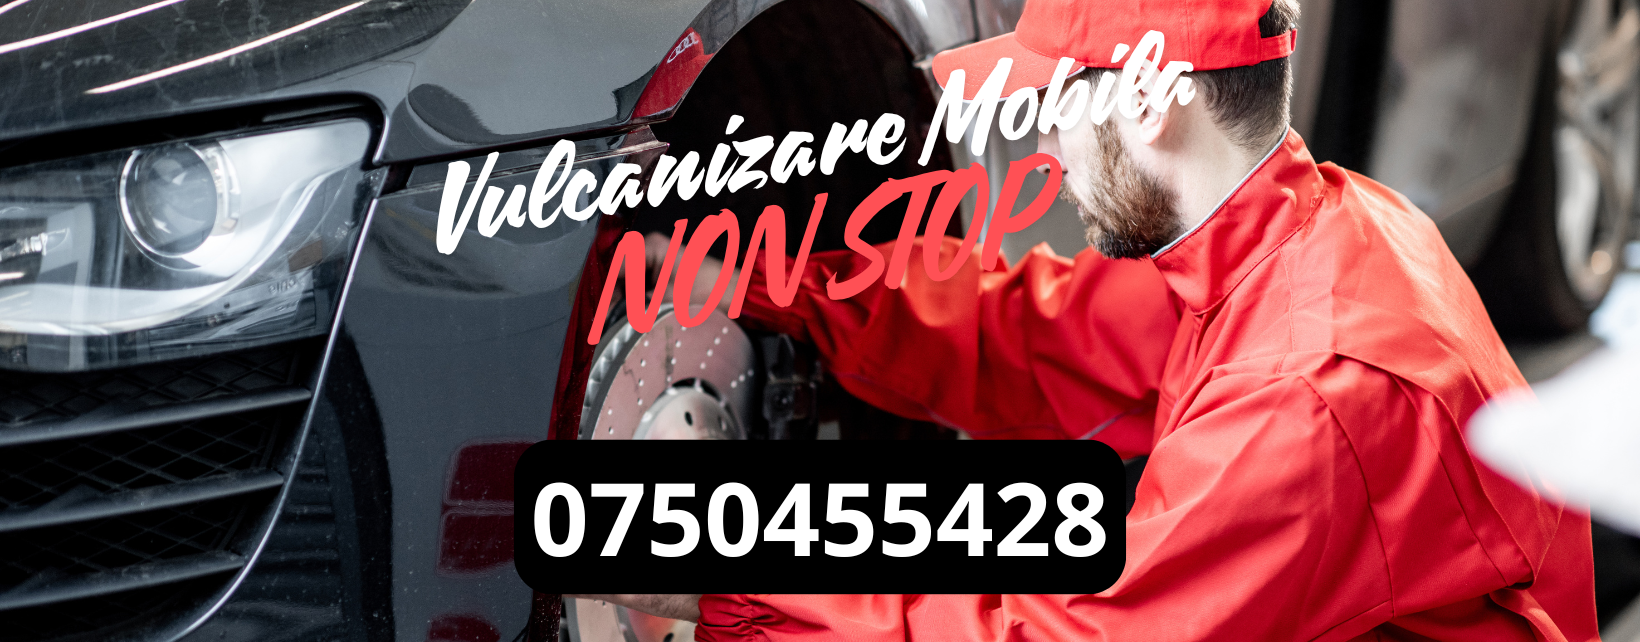
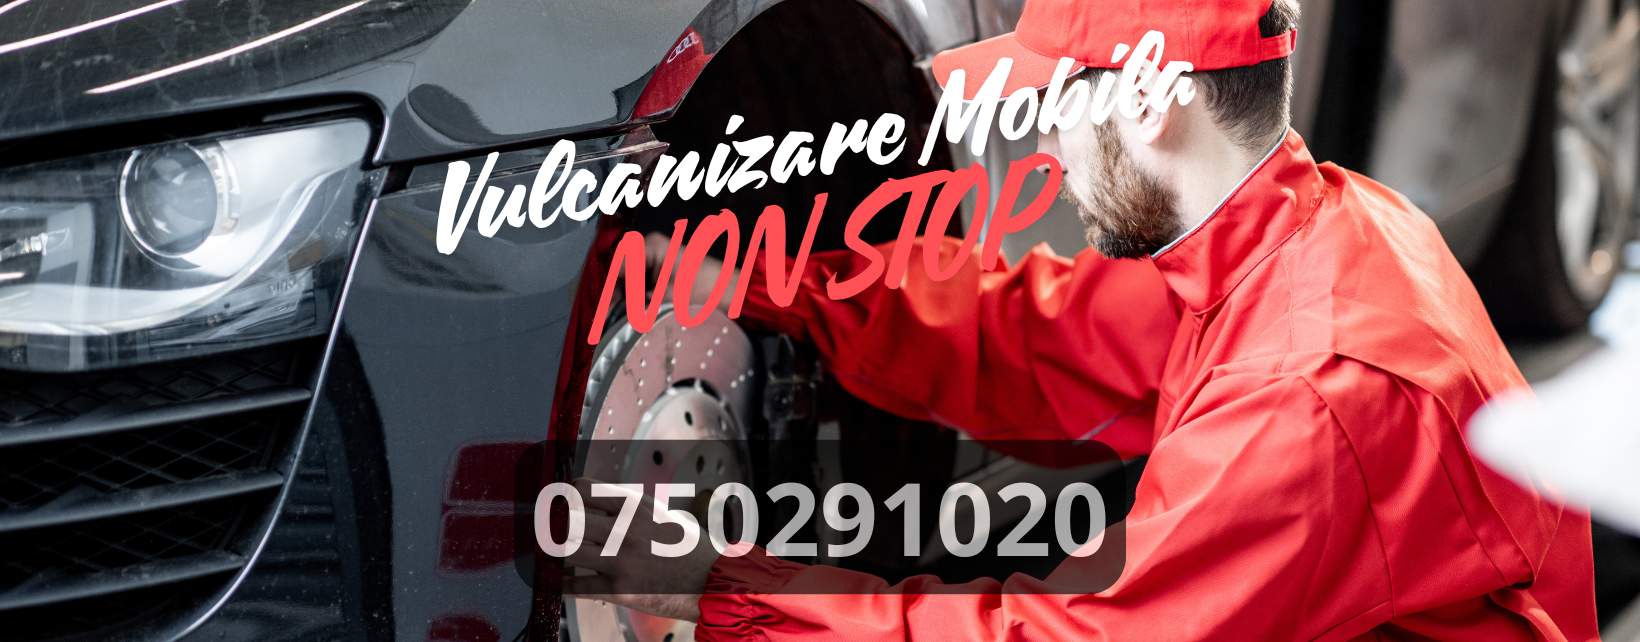
update phone number

Changed region(s): [[0.311, 0.6854, 0.6841, 0.9346]]

diff --git a/docs/posts/vulcanizare-mobila-buzau/index.html b/docs/posts/vulcanizare-mobila-buzau/index.html
@@ -6,7 +6,7 @@
     
     <title>Vulcanizare Mobilă Buzău – Servicii Non-Stop pentru Problemele Tale cu Cauciucurile | Vulcanizare Mobila - Non Stop</title>
     <meta name="viewport" content="width=device-width,minimum-scale=1">
-    <meta name="description" content="Vulcanizare Mobilă Buzău – Servicii Non-Stop pentru Problemele Tale cu Cauciucurile - Tel 0750455428">
+    <meta name="description" content="Vulcanizare Mobilă Buzău – Servicii Non-Stop pentru Problemele Tale cu Cauciucurile - Tel 0750291020">
     <meta name="generator" content="Hugo 0.140.0">
     
     
@@ -36,17 +36,17 @@
     <meta property="og:url" content="https://vulcanizaremobila.com/posts/vulcanizare-mobila-buzau/">
   <meta property="og:site_name" content="Vulcanizare Mobila - Non Stop">
   <meta property="og:title" content="Vulcanizare Mobilă Buzău – Servicii Non-Stop pentru Problemele Tale cu Cauciucurile">
-  <meta property="og:description" content="Vulcanizare Mobilă Buzău – Servicii Non-Stop pentru Problemele Tale cu Cauciucurile - Tel 0750455428">
+  <meta property="og:description" content="Vulcanizare Mobilă Buzău – Servicii Non-Stop pentru Problemele Tale cu Cauciucurile - Tel 0750291020">
   <meta property="og:locale" content="en">
   <meta property="og:type" content="article">
     <meta property="article:section" content="posts">
 
   <meta itemprop="name" content="Vulcanizare Mobilă Buzău – Servicii Non-Stop pentru Problemele Tale cu Cauciucurile">
-  <meta itemprop="description" content="Vulcanizare Mobilă Buzău – Servicii Non-Stop pentru Problemele Tale cu Cauciucurile - Tel 0750455428">
+  <meta itemprop="description" content="Vulcanizare Mobilă Buzău – Servicii Non-Stop pentru Problemele Tale cu Cauciucurile - Tel 0750291020">
   <meta itemprop="wordCount" content="222">
   <meta name="twitter:card" content="summary">
   <meta name="twitter:title" content="Vulcanizare Mobilă Buzău – Servicii Non-Stop pentru Problemele Tale cu Cauciucurile">
-  <meta name="twitter:description" content="Vulcanizare Mobilă Buzău – Servicii Non-Stop pentru Problemele Tale cu Cauciucurile - Tel 0750455428">
+  <meta name="twitter:description" content="Vulcanizare Mobilă Buzău – Servicii Non-Stop pentru Problemele Tale cu Cauciucurile - Tel 0750291020">
 
       
     
@@ -84,7 +84,7 @@
           <div class="f2 f1-l fw2 white-90 mb0 lh-title">Vulcanizare Mobilă Buzău – Servicii Non-Stop pentru Problemele Tale cu Cauciucurile</div>
           
             <div class="fw1 f5 f3-l white-80 measure-wide-l center lh-copy mt3 mb4">
-              Vulcanizare Mobilă Buzău – Servicii Non-Stop pentru Problemele Tale cu Cauciucurile - Tel 0750455428
+              Vulcanizare Mobilă Buzău – Servicii Non-Stop pentru Problemele Tale cu Cauciucurile - Tel 0750291020
             </div>
           
         
@@ -133,7 +133,7 @@
 </ul>
 <h2 id="suntem-aici-să-te-ajutăm">Suntem aici să te ajutăm!</h2>
 <p>Problemele cu cauciucurile nu ar trebui să-ți afecteze planurile. Sună-ne acum, iar noi vom ajunge rapid pentru a-ți oferi asistență.</p>
-<p>📞 <strong>Contactează-ne acum la 0750455428 de telefon] pentru vulcanizare mobilă de încredere în Buzău!</strong></p><ul class="pa0">
+<p>📞 <strong>Contactează-ne acum la 0750291020 de telefon] pentru vulcanizare mobilă de încredere în Buzău!</strong></p><ul class="pa0">
   
 </ul>
 <div class="mt6 instapaper_ignoref">

diff --git a/docs/posts/vulcanizare-mobila-braila/index.html b/docs/posts/vulcanizare-mobila-braila/index.html
@@ -6,7 +6,7 @@
     
     <title>Vulcanizare Mobilă Brăila – Asistență Non-Stop pentru Problemele cu Cauciucurile | Vulcanizare Mobila - Non Stop</title>
     <meta name="viewport" content="width=device-width,minimum-scale=1">
-    <meta name="description" content="Vulcanizare Mobilă Brăila – Asistență Non-Stop pentru Problemele cu Cauciucurile - tel 0750455428">
+    <meta name="description" content="Vulcanizare Mobilă Brăila – Asistență Non-Stop pentru Problemele cu Cauciucurile - tel 0750291020">
     <meta name="generator" content="Hugo 0.140.0">
     
     
@@ -36,17 +36,17 @@
     <meta property="og:url" content="https://vulcanizaremobila.com/posts/vulcanizare-mobila-braila/">
   <meta property="og:site_name" content="Vulcanizare Mobila - Non Stop">
   <meta property="og:title" content="Vulcanizare Mobilă Brăila – Asistență Non-Stop pentru Problemele cu Cauciucurile">
-  <meta property="og:description" content="Vulcanizare Mobilă Brăila – Asistență Non-Stop pentru Problemele cu Cauciucurile - tel 0750455428">
+  <meta property="og:description" content="Vulcanizare Mobilă Brăila – Asistență Non-Stop pentru Problemele cu Cauciucurile - tel 0750291020">
   <meta property="og:locale" content="en">
   <meta property="og:type" content="article">
     <meta property="article:section" content="posts">
 
   <meta itemprop="name" content="Vulcanizare Mobilă Brăila – Asistență Non-Stop pentru Problemele cu Cauciucurile">
-  <meta itemprop="description" content="Vulcanizare Mobilă Brăila – Asistență Non-Stop pentru Problemele cu Cauciucurile - tel 0750455428">
+  <meta itemprop="description" content="Vulcanizare Mobilă Brăila – Asistență Non-Stop pentru Problemele cu Cauciucurile - tel 0750291020">
   <meta itemprop="wordCount" content="240">
   <meta name="twitter:card" content="summary">
   <meta name="twitter:title" content="Vulcanizare Mobilă Brăila – Asistență Non-Stop pentru Problemele cu Cauciucurile">
-  <meta name="twitter:description" content="Vulcanizare Mobilă Brăila – Asistență Non-Stop pentru Problemele cu Cauciucurile - tel 0750455428">
+  <meta name="twitter:description" content="Vulcanizare Mobilă Brăila – Asistență Non-Stop pentru Problemele cu Cauciucurile - tel 0750291020">
 
       
     
@@ -84,7 +84,7 @@
           <div class="f2 f1-l fw2 white-90 mb0 lh-title">Vulcanizare Mobilă Brăila – Asistență Non-Stop pentru Problemele cu Cauciucurile</div>
           
             <div class="fw1 f5 f3-l white-80 measure-wide-l center lh-copy mt3 mb4">
-              Vulcanizare Mobilă Brăila – Asistență Non-Stop pentru Problemele cu Cauciucurile - tel 0750455428
+              Vulcanizare Mobilă Brăila – Asistență Non-Stop pentru Problemele cu Cauciucurile - tel 0750291020
             </div>
           
         
@@ -133,7 +133,7 @@
 </ul>
 <h2 id="contactează-ne-acum">Contactează-ne acum!</h2>
 <p>Nu lăsa o problemă minoră să-ți afecteze planurile. Suntem aici să te ajutăm, oriunde în Brăila, la orice oră.</p>
-<p>📞 <strong>Sună acum la 0750455428 pentru vulcanizare mobilă rapidă și de încredere în Brăila!</strong></p>
+<p>📞 <strong>Sună acum la 0750291020 pentru vulcanizare mobilă rapidă și de încredere în Brăila!</strong></p>
 <p>Cu noi, fiecare drum devine mai sigur și mai liniștit!</p><ul class="pa0">
   
 </ul>

diff --git a/docs/posts/vulcanizare-mobila-tecuci/index.html b/docs/posts/vulcanizare-mobila-tecuci/index.html
@@ -6,7 +6,7 @@
     
     <title>Vulcanizare Mobila Tecuci | Vulcanizare Mobila - Non Stop</title>
     <meta name="viewport" content="width=device-width,minimum-scale=1">
-    <meta name="description" content="Vulcanizare Mobilă Tecuci – Ajutor Non-Stop pentru Orice Problemă cu Cauciucurile - tel 0750455428">
+    <meta name="description" content="Vulcanizare Mobilă Tecuci – Ajutor Non-Stop pentru Orice Problemă cu Cauciucurile - tel 0750291020">
     <meta name="generator" content="Hugo 0.140.0">
     
     
@@ -36,17 +36,17 @@
     <meta property="og:url" content="https://vulcanizaremobila.com/posts/vulcanizare-mobila-tecuci/">
   <meta property="og:site_name" content="Vulcanizare Mobila - Non Stop">
   <meta property="og:title" content="Vulcanizare Mobila Tecuci">
-  <meta property="og:description" content="Vulcanizare Mobilă Tecuci – Ajutor Non-Stop pentru Orice Problemă cu Cauciucurile - tel 0750455428">
+  <meta property="og:description" content="Vulcanizare Mobilă Tecuci – Ajutor Non-Stop pentru Orice Problemă cu Cauciucurile - tel 0750291020">
   <meta property="og:locale" content="en">
   <meta property="og:type" content="article">
     <meta property="article:section" content="posts">
 
   <meta itemprop="name" content="Vulcanizare Mobila Tecuci">
-  <meta itemprop="description" content="Vulcanizare Mobilă Tecuci – Ajutor Non-Stop pentru Orice Problemă cu Cauciucurile - tel 0750455428">
+  <meta itemprop="description" content="Vulcanizare Mobilă Tecuci – Ajutor Non-Stop pentru Orice Problemă cu Cauciucurile - tel 0750291020">
   <meta itemprop="wordCount" content="227">
   <meta name="twitter:card" content="summary">
   <meta name="twitter:title" content="Vulcanizare Mobila Tecuci">
-  <meta name="twitter:description" content="Vulcanizare Mobilă Tecuci – Ajutor Non-Stop pentru Orice Problemă cu Cauciucurile - tel 0750455428">
+  <meta name="twitter:description" content="Vulcanizare Mobilă Tecuci – Ajutor Non-Stop pentru Orice Problemă cu Cauciucurile - tel 0750291020">
 
       
     
@@ -84,7 +84,7 @@
           <div class="f2 f1-l fw2 white-90 mb0 lh-title">Vulcanizare Mobila Tecuci</div>
           
             <div class="fw1 f5 f3-l white-80 measure-wide-l center lh-copy mt3 mb4">
-              Vulcanizare Mobilă Tecuci – Ajutor Non-Stop pentru Orice Problemă cu Cauciucurile - tel 0750455428
+              Vulcanizare Mobilă Tecuci – Ajutor Non-Stop pentru Orice Problemă cu Cauciucurile - tel 0750291020
             </div>
           
         
@@ -133,7 +133,7 @@
 </ul>
 <h2 id="suntem-mereu-aproape-de-tine">Suntem mereu aproape de tine!</h2>
 <p>Nu lăsa o pană să îți strice planurile. Sună-ne și noi venim imediat să te ajutăm.</p>
-<p>📞 <strong>Contactează-ne acum la 0750455428 pentru vulcanizare mobilă rapidă în Tecuci!</strong></p><ul class="pa0">
+<p>📞 <strong>Contactează-ne acum la 0750291020 pentru vulcanizare mobilă rapidă în Tecuci!</strong></p><ul class="pa0">
   
 </ul>
 <div class="mt6 instapaper_ignoref">

diff --git a/docs/posts/vulcanizare-mobila-focsani/index.html b/docs/posts/vulcanizare-mobila-focsani/index.html
@@ -121,7 +121,7 @@ Cele mai mici prețuri: Ne dorim să oferim servicii accesibile pentru toată lu
 <p>Indiferent dacă ai o pană, ai nevoie de schimbarea cauciucurilor sau alte probleme legate de roțile mașinii tale, suntem pregătiți să intervenim.</p>
 <p><strong>Suntem aici pentru tine, oriunde și oricând!</strong>
 Dacă ai nevoie de ajutor, nu ezita să ne contactezi! Echipa noastră profesionistă este gata să te ajute rapid și eficient.</p>
-<p>📞 Sună acum la <strong>0750455428</strong> pentru asistență rapidă!</p>
+<p>📞 Sună acum la <strong>0750291020</strong> pentru asistență rapidă!</p>
 <p>Nu lăsa o problemă minoră să-ți strice ziua. Apelează la noi pentru un serviciu de încredere, disponibil non-stop!</p><ul class="pa0">
   
 </ul>

diff --git a/docs/posts/vulcanizare-mobila-galati/index.html b/docs/posts/vulcanizare-mobila-galati/index.html
@@ -129,7 +129,7 @@
 </ul>
 <h2 id="suntem-alături-de-tine-oriunde-în-galați">Suntem alături de tine, oriunde în Galați!</h2>
 <p>Nu lăsa o pană să-ți strice ziua. Contactează-ne și vom fi acolo să te ajutăm în cel mai scurt timp.</p>
-<p>📞 <strong>Sună acum la 0750455428 pentru vulcanizare mobilă rapidă și eficientă în Galați!</strong></p><ul class="pa0">
+<p>📞 <strong>Sună acum la 0750291020 pentru vulcanizare mobilă rapidă și eficientă în Galați!</strong></p><ul class="pa0">
   
 </ul>
 <div class="mt6 instapaper_ignoref">

diff --git a/docs/posts/vulcanizare-mobila-adjud/index.html b/docs/posts/vulcanizare-mobila-adjud/index.html
@@ -129,7 +129,7 @@
 </ul>
 <h2 id="contactează-ne-chiar-acum">Contactează-ne chiar acum!</h2>
 <p>Nu lăsa o problemă minoră să-ți strice ziua sau să-ți afecteze planurile. Suntem aici să te ajutăm, indiferent de oră.</p>
-<p>📞 <strong>Sună acum la 0750455428 pentru vulcanizare mobilă în Adjud!</strong></p><ul class="pa0">
+<p>📞 <strong>Sună acum la 0750291020 pentru vulcanizare mobilă în Adjud!</strong></p><ul class="pa0">
   
 </ul>
 <div class="mt6 instapaper_ignoref">

diff --git a/content/posts/vulcanizare-mobila-tecuci.md b/content/posts/vulcanizare-mobila-tecuci.md
@@ -1,7 +1,7 @@
 ---
 title: "Vulcanizare Mobila Tecuci"
 featured_image: "/images/2.png"
-description: "Vulcanizare Mobilă Tecuci – Ajutor Non-Stop pentru Orice Problemă cu Cauciucurile - tel 0750455428"
+description: "Vulcanizare Mobilă Tecuci – Ajutor Non-Stop pentru Orice Problemă cu Cauciucurile - tel 0750291020"
 ---
 
 Ești în Tecuci și ai nevoie urgentă de ajutor pentru o pană sau o problemă la roți? Noi suntem soluția de care ai nevoie! Oferim servicii de **vulcanizare mobilă în Tecuci**, disponibile 24/7, astfel încât să îți poți continua călătoria fără griji. <!--more-->
@@ -25,6 +25,6 @@ Ești în Tecuci și ai nevoie urgentă de ajutor pentru o pană sau o problemă
 ## Suntem mereu aproape de tine!
 Nu lăsa o pană să îți strice planurile. Sună-ne și noi venim imediat să te ajutăm.
 
-📞 **Contactează-ne acum la 0750455428 pentru vulcanizare mobilă rapidă în Tecuci!**
+📞 **Contactează-ne acum la 0750291020 pentru vulcanizare mobilă rapidă în Tecuci!**
 
 

diff --git a/content/posts/vulcanizare-mobila-braila.md b/content/posts/vulcanizare-mobila-braila.md
@@ -1,6 +1,6 @@
 ---
 title: "Vulcanizare Mobilă Brăila – Asistență Non-Stop pentru Problemele cu Cauciucurile"
-description: "Vulcanizare Mobilă Brăila – Asistență Non-Stop pentru Problemele cu Cauciucurile - tel 0750455428"
+description: "Vulcanizare Mobilă Brăila – Asistență Non-Stop pentru Problemele cu Cauciucurile - tel 0750291020"
 featured_image: "/images/6.png"
 ---
 
@@ -25,6 +25,6 @@ Te-ai trezit cu o pană sau o problemă la roțile mașinii în Brăila? Nu-ți 
 ## Contactează-ne acum!
 Nu lăsa o problemă minoră să-ți afecteze planurile. Suntem aici să te ajutăm, oriunde în Brăila, la orice oră.
 
-📞 **Sună acum la 0750455428 pentru vulcanizare mobilă rapidă și de încredere în Brăila!**
+📞 **Sună acum la 0750291020 pentru vulcanizare mobilă rapidă și de încredere în Brăila!**
 
 Cu noi, fiecare drum devine mai sigur și mai liniștit!

diff --git a/content/posts/vulcanizare-mobila-focsani.md b/content/posts/vulcanizare-mobila-focsani.md
@@ -22,7 +22,7 @@ Indiferent dacă ai o pană, ai nevoie de schimbarea cauciucurilor sau alte prob
 **Suntem aici pentru tine, oriunde și oricând!**
 Dacă ai nevoie de ajutor, nu ezita să ne contactezi! Echipa noastră profesionistă este gata să te ajute rapid și eficient.
 
-📞 Sună acum la **0750455428** pentru asistență rapidă!
+📞 Sună acum la **0750291020** pentru asistență rapidă!
 
 Nu lăsa o problemă minoră să-ți strice ziua. Apelează la noi pentru un serviciu de încredere, disponibil non-stop!
 

diff --git a/content/posts/vulcanizare-mobila-galati.md b/content/posts/vulcanizare-mobila-galati.md
@@ -26,4 +26,4 @@ Ai o pană sau o problemă la roțile mașinii în Galați? Nu-ți face griji! O
 ## Suntem alături de tine, oriunde în Galați!
 Nu lăsa o pană să-ți strice ziua. Contactează-ne și vom fi acolo să te ajutăm în cel mai scurt timp.
 
-📞 **Sună acum la 0750455428 pentru vulcanizare mobilă rapidă și eficientă în Galați!**
+📞 **Sună acum la 0750291020 pentru vulcanizare mobilă rapidă și eficientă în Galați!**

diff --git a/content/posts/vulcanizare-mobila-adjud.md b/content/posts/vulcanizare-mobila-adjud.md
@@ -24,5 +24,5 @@ Ești în Adjud și te confrunți cu o pană sau o altă problemă la cauciucuri
 ## Contactează-ne chiar acum!
 Nu lăsa o problemă minoră să-ți strice ziua sau să-ți afecteze planurile. Suntem aici să te ajutăm, indiferent de oră.  
 
-📞 **Sună acum la 0750455428 pentru vulcanizare mobilă în Adjud!**
+📞 **Sună acum la 0750291020 pentru vulcanizare mobilă în Adjud!**
 
